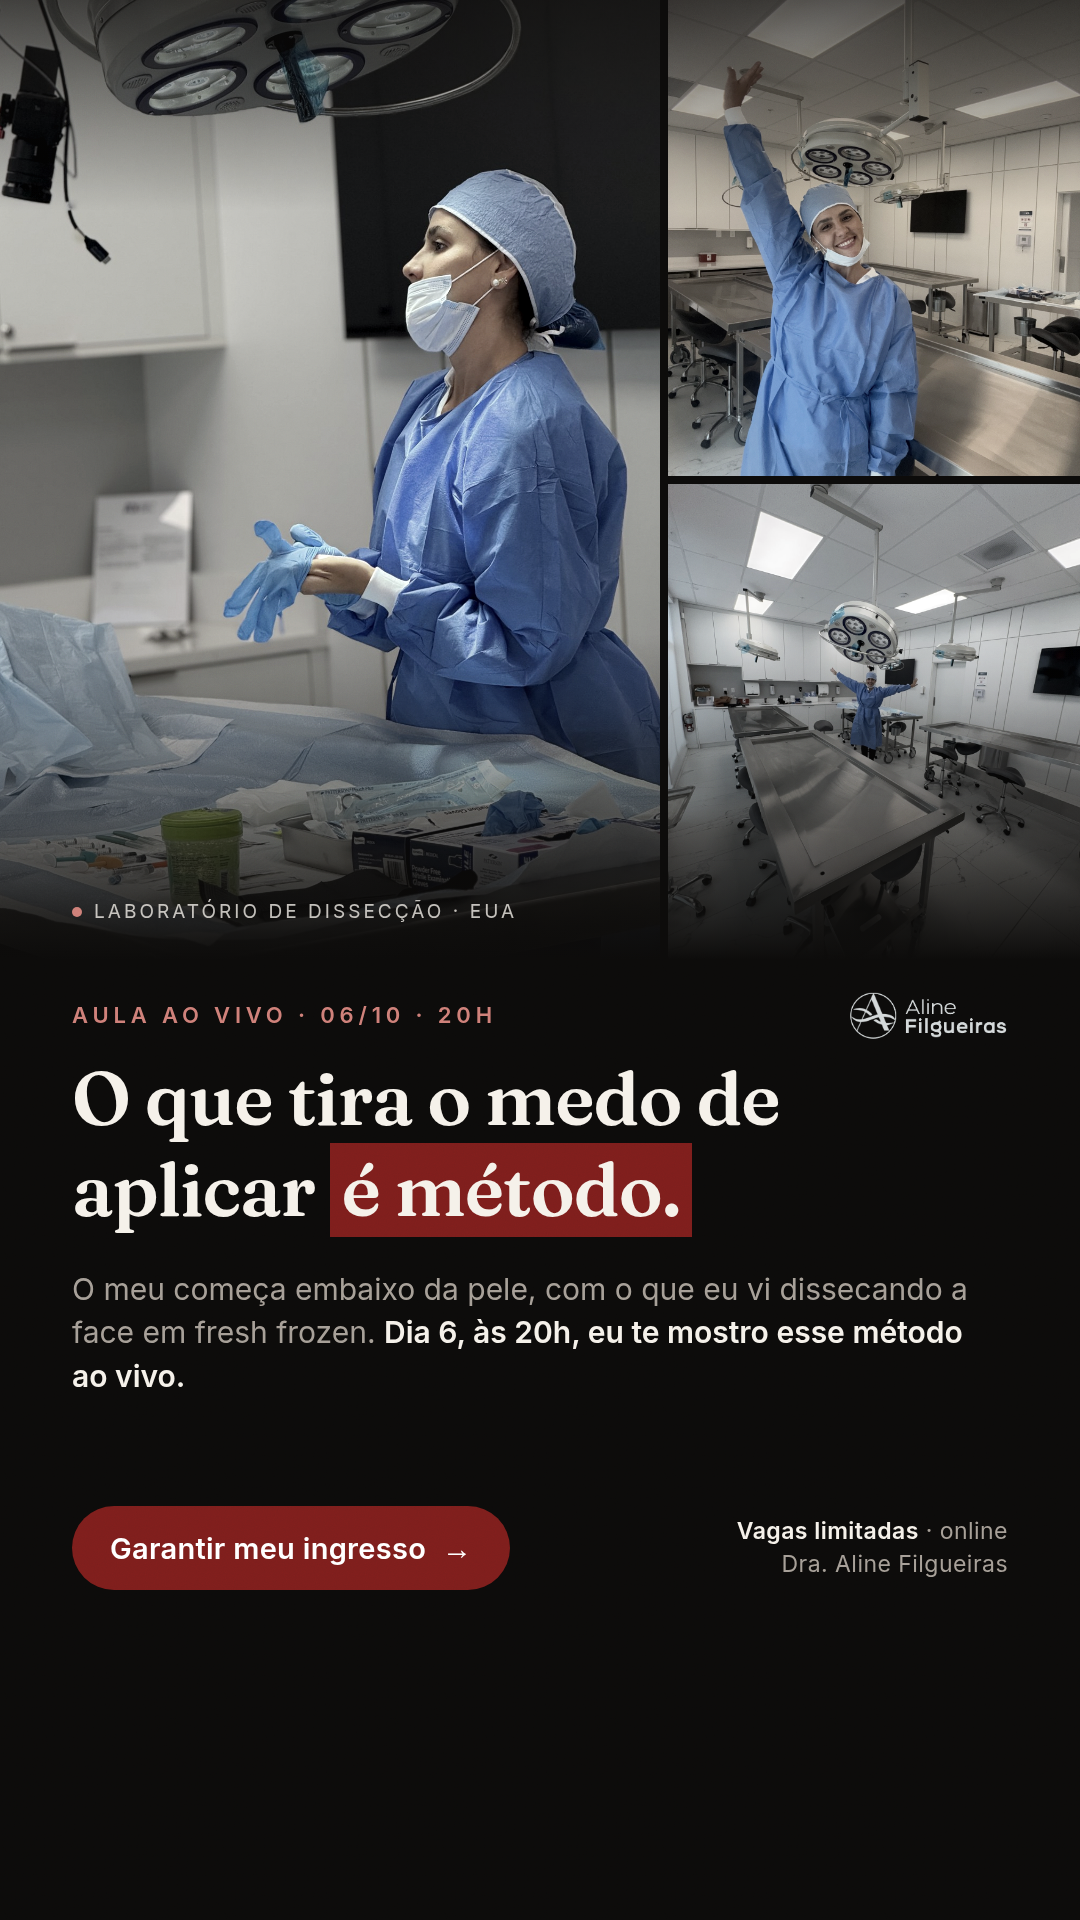
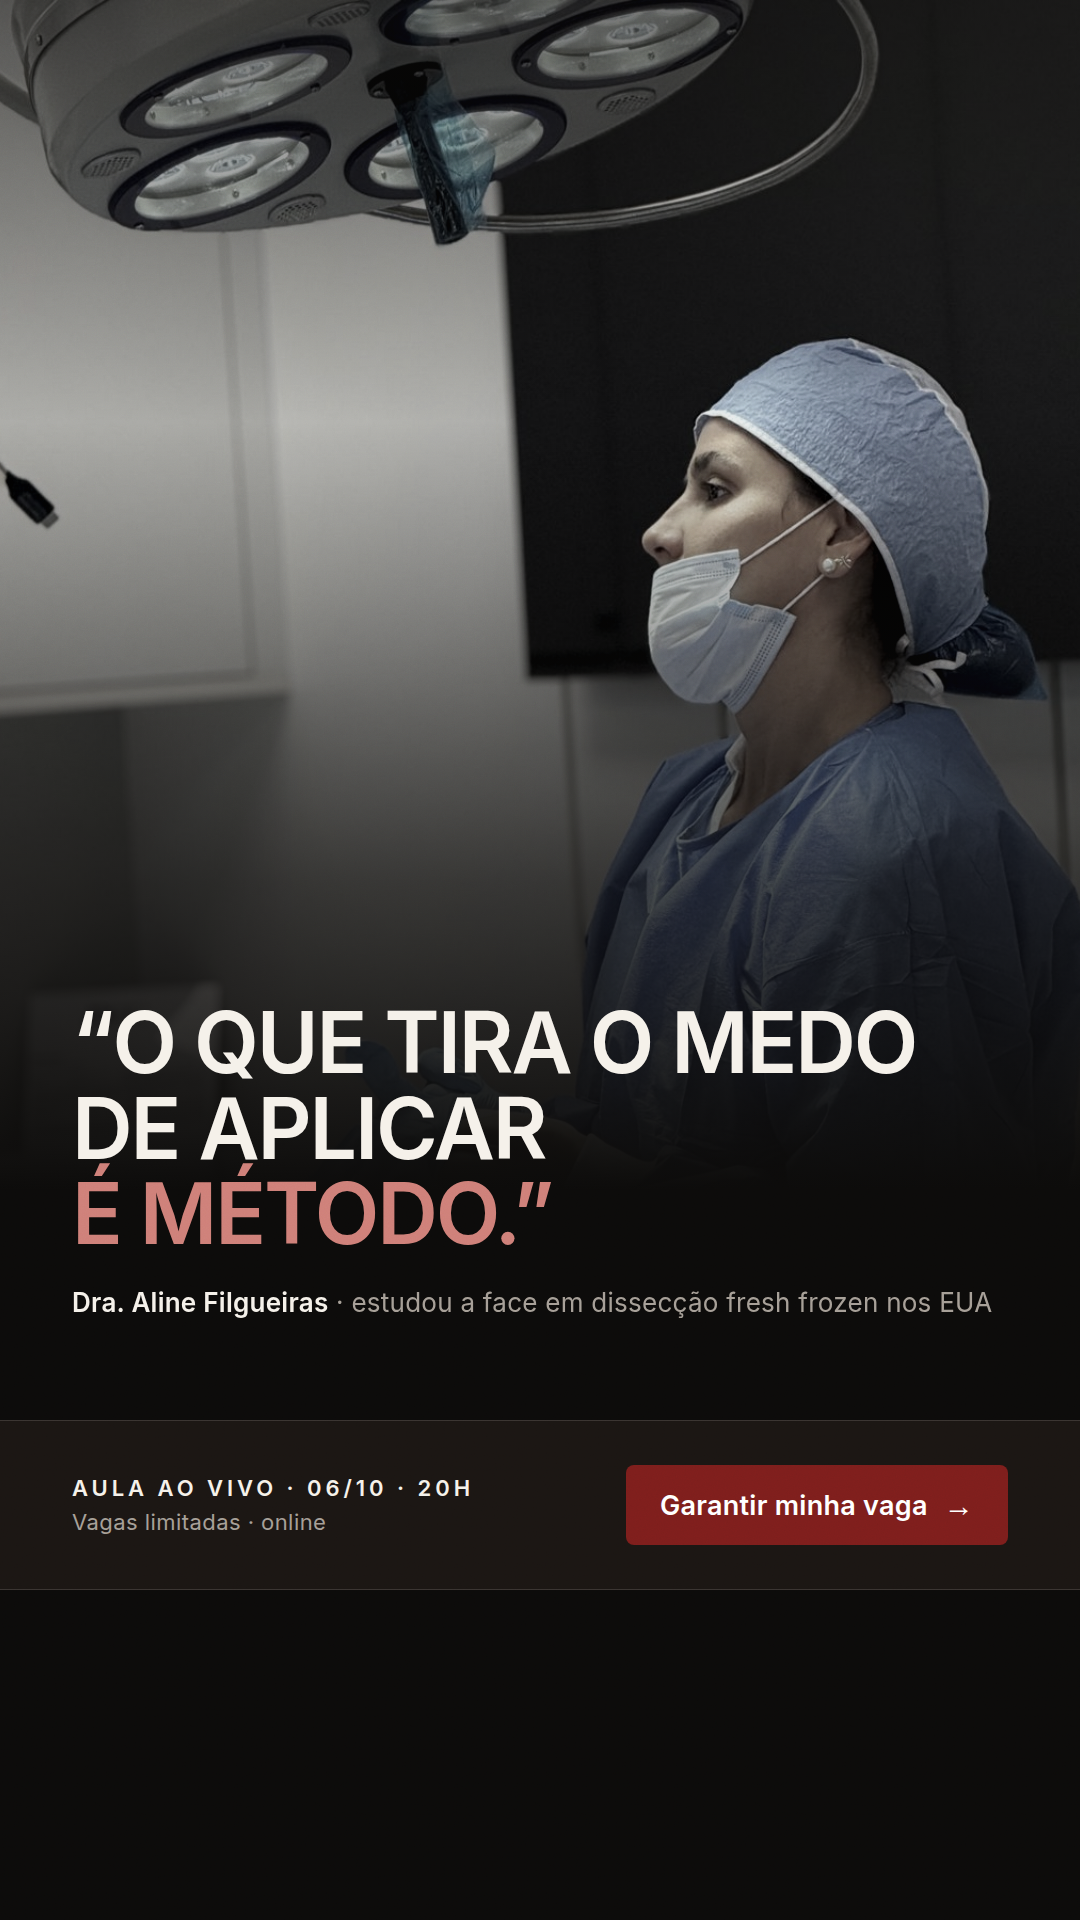
Criativo 08: versão sóbria no estilo citação
Uma foto em tela cheia (Aline calçando as luvas), a frase como citação,
uma linha de autoridade e a barra com a aula, vagas limitadas e o botão.
Saem o grid de três fotos, o subtítulo e o logo.

Claude-Session: https://claude.ai/code/session_01WPUMeavyQNj8nGDqq9EBnH

diff --git a/docs/criativos/criativos.html b/docs/criativos/criativos.html
@@ -177,30 +177,26 @@
   .story.t5 .ticket { top: 950px; width: 936px; }
   .story.t5 .ticket .desc { font-size: 23px; }
   .story.t5 .aviso { top: 1404px; width: 936px; }
-  /* ---------- t6 · três fotos do laboratório (08) ----------
-     Foto principal (Aline calçando as luvas) + duas menores à direita. O texto
-     fica embaixo, sobre o fundo escuro. */
-  .t6 .fotos { position: absolute; left: 0; right: 0; top: 0; height: 730px; display: grid; grid-template-columns: 640px 1fr; grid-template-rows: 1fr 1fr; gap: 8px; }
-  .t6 .f { background-size: cover; filter: saturate(.6) contrast(1.04); }
-  .t6 .f1 { grid-row: 1 / 3; background-image: url("fotos/lab-luvas.jpg"); background-position: 62% 22%; }
-  .t6 .f2 { background-image: url("fotos/lab-braco-erguido.jpg"); background-position: 40% 30%; }
-  .t6 .f3 { background-image: url("fotos/lab-bracos-abertos.jpg"); background-position: center 45%; }
-  .t6 .veu { position: absolute; left: 0; right: 0; top: 0; height: 730px; background: linear-gradient(180deg, rgba(12,11,10,.6) 0%, rgba(12,11,10,0) 18%, rgba(12,11,10,0) 62%, var(--bg) 100%); }
-  .t6 .linha { display: flex; justify-content: space-between; align-items: center; }
-  .t6 .legenda { top: 660px; left: 72px; }
-  .t6 .texto { position: absolute; left: 72px; right: 72px; top: 768px; }
-  .t6 h1 { margin-top: 18px; font-size: 70px; line-height: 1.1; font-weight: 600; color: var(--fg); letter-spacing: -.015em; }
-  .t6 h1 .grifo { line-height: 1.38; }
-  .t6 p { margin-top: 26px; font-size: 29px; line-height: 1.45; color: var(--fg-soft); max-width: 900px; }
-  .t6 p b { color: var(--fg); font-weight: 600; }
+  /* ---------- t6 · citação sóbria (08) ----------
+     Uma foto em tela cheia, a frase como citação da Aline, uma linha de
+     autoridade e a barra de baixo com a aula e o botão. Pouca informação. */
+  .t6 .foto { position: absolute; inset: 0; background: url("fotos/lab-luvas.jpg") 64% 16% / cover; filter: saturate(.45) contrast(1.06) brightness(.92); }
+  .t6 .veu { position: absolute; inset: 0; background: linear-gradient(180deg, rgba(12,11,10,.25) 0%, rgba(12,11,10,0) 34%, rgba(12,11,10,.75) 56%, var(--bg) 74%); }
+  .t6 .texto { position: absolute; left: 72px; right: 72px; top: 820px; }
+  .t6 h1 { font-family: "Inter", sans-serif; font-size: 78px; line-height: 1.02; font-weight: 600; letter-spacing: -.025em; text-transform: uppercase; color: var(--fg); }
+  .t6 h1 em { font-style: normal; color: var(--wine-ink); white-space: nowrap; }
+  .t6 .autor { margin-top: 30px; font-size: 26px; color: var(--fg-soft); letter-spacing: .01em; }
+  .t6 .autor b { color: var(--fg); font-weight: 600; }
+  .t6 .barra { position: absolute; left: 0; right: 0; bottom: 0; height: 170px; background: var(--bg-3); border-top: 1px solid var(--line); display: flex; align-items: center; justify-content: space-between; padding: 0 72px; }
+  .t6 .barra .aula { font-size: 22px; font-weight: 600; letter-spacing: .18em; text-transform: uppercase; color: var(--fg); }
+  .t6 .barra .aula small { display: block; margin-top: 8px; font-size: 22px; font-weight: 400; letter-spacing: .02em; text-transform: none; color: var(--fg-soft); }
+  .t6 .barra .cta { font-size: 27px; padding: 22px 34px; border-radius: 8px; }
 
-  .story.t6 .fotos, .story.t6 .veu { height: 960px; }
-  .story.t6 .fotos { grid-template-columns: 660px 1fr; }
-  .story.t6 .veu { background: linear-gradient(180deg, rgba(12,11,10,.7) 0%, rgba(12,11,10,0) 22%, rgba(12,11,10,0) 66%, var(--bg) 100%); }
-  .story.t6 .legenda { top: 900px; }
-  .story.t6 .texto { top: 990px; }
-  .story.t6 h1 { font-size: 74px; }
-  .story.t6 p { font-size: 30px; }
+  .story.t6 .foto { background-position: 66% 18%; }
+  .story.t6 .veu { background: linear-gradient(180deg, rgba(12,11,10,.55) 0%, rgba(12,11,10,0) 22%, rgba(12,11,10,.7) 46%, var(--bg) 62%); }
+  .story.t6 .texto { top: 1000px; }
+  .story.t6 h1 { font-size: 84px; }
+  .story.t6 .barra { bottom: 330px; border-bottom: 1px solid var(--line); }
 </style>
 </head>
 <body>
@@ -349,20 +345,17 @@
   </div>
 </section>
 
-<!-- 08 · Método (ideia da equipe, 04/10): o medo de aplicar passa com método.
-     Copy revisada pela skill de copywriting: sem "não é X, é Y" (contrast reveal). -->
+<!-- 08 · Método (ideia da equipe, 04/10), versão sóbria no estilo citação.
+     Copy pela skill de copywriting: sem "não é X, é Y" (contrast reveal). -->
 <section class="ad grao t6" id="c8">
-  <div class="fotos"><div class="f f1"></div><div class="f f2"></div><div class="f f3"></div></div>
-  <div class="veu"></div>
-  <span class="legenda">Laboratório de dissecção · EUA</span>
+  <div class="foto"></div><div class="veu"></div>
   <div class="texto">
-    <div class="linha"><span class="eyebrow">Aula ao vivo · 06/10 · 20h</span><img class="logo" src="../../public/images/logo-ink.png" alt=""></div>
-    <h1 class="serif">O que tira o medo de aplicar <span class="grifo">é método.</span></h1>
-    <p>O meu começa embaixo da pele, com o que eu vi dissecando a face em fresh frozen. <b>Dia 6, às 20h, eu te mostro esse método ao vivo.</b></p>
+    <h1>&ldquo;O que tira o medo de aplicar <em>é método.&rdquo;</em></h1>
+    <p class="autor"><b>Dra. Aline Filgueiras</b> · estudou a face em dissecção fresh frozen nos EUA</p>
   </div>
-  <div class="rodape">
-    <span class="cta">Garantir meu ingresso <span class="seta">→</span></span>
-    <span class="data"><b>Vagas limitadas</b> · online<br>Dra. Aline Filgueiras</span>
+  <div class="barra">
+    <span class="aula">Aula ao vivo · 06/10 · 20h<small>Vagas limitadas · online</small></span>
+    <span class="cta">Garantir minha vaga <span class="seta">→</span></span>
   </div>
 </section>
 

diff --git a/docs/criativos/README.md b/docs/criativos/README.md
@@ -26,7 +26,7 @@ prova de por que a Aline consegue entregar isso (legenda da foto, linha de autor
 | 05 | Oferta: uma noite pra aplicar com segurança | Quente |
 | 06 | Crença quebrada: atlas, slide e boneco × rosto real | Frio |
 | 07 | Dor: o risco a milímetros da agulha | Frio |
-| 08 | Método: "O que tira o medo de aplicar é método." Três fotos reais do laboratório (luvas, braço erguido, sala) | Frio |
+| 08 | Método, em citação sóbria: "O que tira o medo de aplicar é método." Foto da Aline calçando as luvas em tela cheia + barra da aula | Frio |
 
 O 08 (04/10) parte da ideia da equipe "o que tira o medo de aplicar não é coragem, é método". A
 copy passou pela skill *copywriting* (marketingskills), que proíbe o "não é X, é Y": a headline afirma
